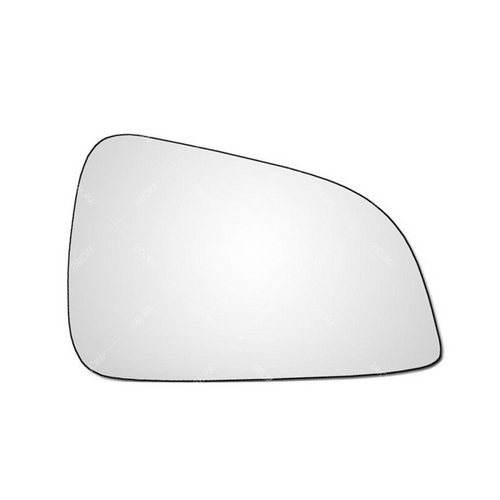
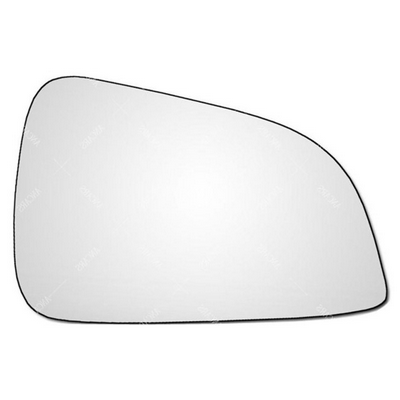
card

diff --git a/index.html b/index.html
@@ -83,7 +83,7 @@
                             и отправка в регионы не предусмотрена.
                         </span>
                         <span class="delivery">
-                            Вы можем организовать доставку через вашего курьера,
+                            Вы можем организовать доставку в регион через вашего курьера,
                             который приобретет необходимый элемент у нас и отправит его прямо к вам.
                         </span>
                     </p>
@@ -92,18 +92,56 @@
         </div>
     </div>
     <main class="main">
-        <div class="container">
+        <div class="container-fluid">
             <div class="row">
-                <div class="col-md-6">
+                <div class="col-12 col-sm-6">
                     <div class="card">
-                        <img src="assets/img/зеркальный элемент Opel Astra H широкий левый.png" class="card-img-top"
-                            alt="...">
-                        <div class="card-body">
-                            <h5 class="card-title">Card title</h5>
-                            <p class="card-text">Some quick example text to build on the card title and make up the bulk
-                                of the card’s content.</p>
+                        <div class="text-center">
+                            <img src="assets/img/зеркальный элемент Opel Astra H широкий левый.png" class="card-img-top"
+                                alt="зеркальный элемент Opel Astra H широкий левый">
                         </div>
-                        <ul class="list-group list-group-flush">
+                        <div class="card-body py-0">
+                            <h5 class="card-title">Зеркальный элемент Opel Astra H широкий левый</h5>
+                            <p class="card-text">
+                                Зеркальный элемент на автомобиль марки
+                                OPEL ASTRA H 2010, 2011, 2012, 2013, 2014, 2015 года.
+                                Стекло левого зеркала бокового вида широкое, без площадки.
+                            </p>
+                        </div>
+                        <ul class="list-group list-group-flush text-start">
+                            <li class="list-group-item">
+                                <div class="header-top-phone">
+                                    <i class="fa-solid fa-phone"></i>
+                                    <a href="tel:+79872119654">
+                                        +7-987-211-96-54
+                                    </a>
+                                </div>
+                            </li>
+                            <li class="list-group-item">
+                                <div class="header-top-mail">
+                                    <i class="fa-regular fa-envelope"></i>
+                                    <a href="mailto:kazan_avtozapchasti@mail.ru">
+                                        kazan_avtozapchasti@mail.ru
+                                    </a>
+                                </div>
+                            </li>
+                    </div>
+                </div>
+                <div class="col-12 col-sm-6">
+                    <div class="card">
+                        <div class="text-center">
+                            <img src="assets/img/зеркальный элемент Opel Astra H широкий правый.png"
+                                class="card-img-top" alt="зеркальный элемент Opel Astra H широкий правый">
+                        </div>
+                        <div class="card-body py-0">
+                            <h5 class="card-title">Зеркальный элемент Opel Astra H широкий правый</h5>
+                            <p class="card-text">
+                                Зеркальный элемент на автомобиль марки
+                                OPEL ASTRA H 2010, 2011, 2012, 2013, 2014, 2015 года.
+                                Стекло правого зеркала бокового вида широкое, без площадки.
+                            </p>
+                        </div>
+                        <ul class="list-group list-group-flush text-start">
                             <li class="list-group-item">
                                 <div class="header-top-phone">
                                     <i class="fa-solid fa-phone"></i>
@@ -124,6 +162,9 @@
                 </div>
             </div>
         </div>
+
+
+
     </main>
 
     <script src="https://cdn.jsdelivr.net/npm/bootstrap@5.3.8/dist/js/bootstrap.bundle.min.js"></script>

diff --git a/assets/css/main.css b/assets/css/main.css
@@ -33,11 +33,6 @@ p {
     margin-bottom: 0;
 }
 
-.card-img-top {
-    width: 100%;
-    height: 100%;
-}
-
 /*=================== Header rules =========================*/
 .header-top {
     background-color: #6B0E8C;
@@ -62,7 +57,7 @@ p {
 
 /*=================== Header rules =========================*/
 
-/*=================== warning rules =========================*/
+/*=================== warning =========================*/
 
 .warning {
     background-color: var(--bg-color)
@@ -82,4 +77,13 @@ p {
     overflow: hidden;
 }
 
-/*=================== warning rules =========================*/
+/*=================== warning =========================*/
+
+/*=================== cards =========================*/
+
+.card-img-top {
+    max-width: 50%;
+    max-height: 50%;
+}
+
+/*=================== cards =========================*/
